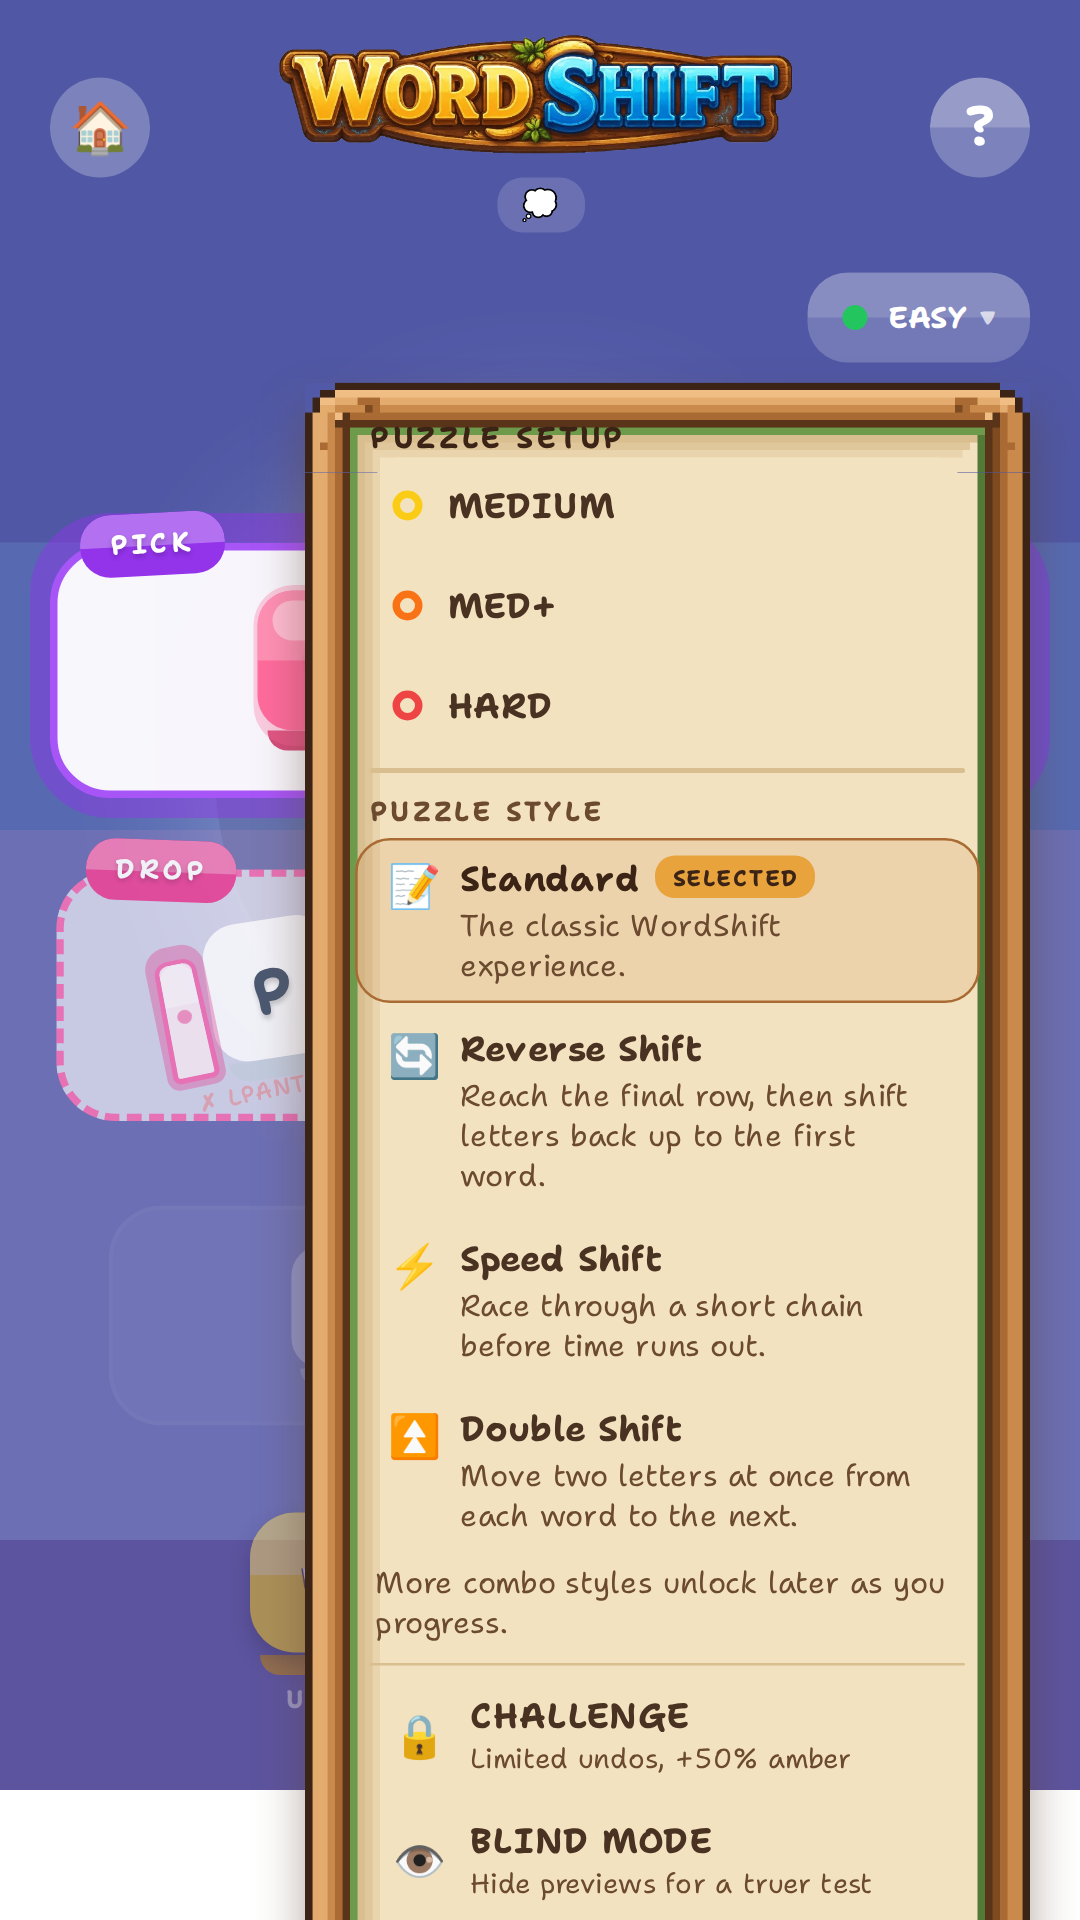
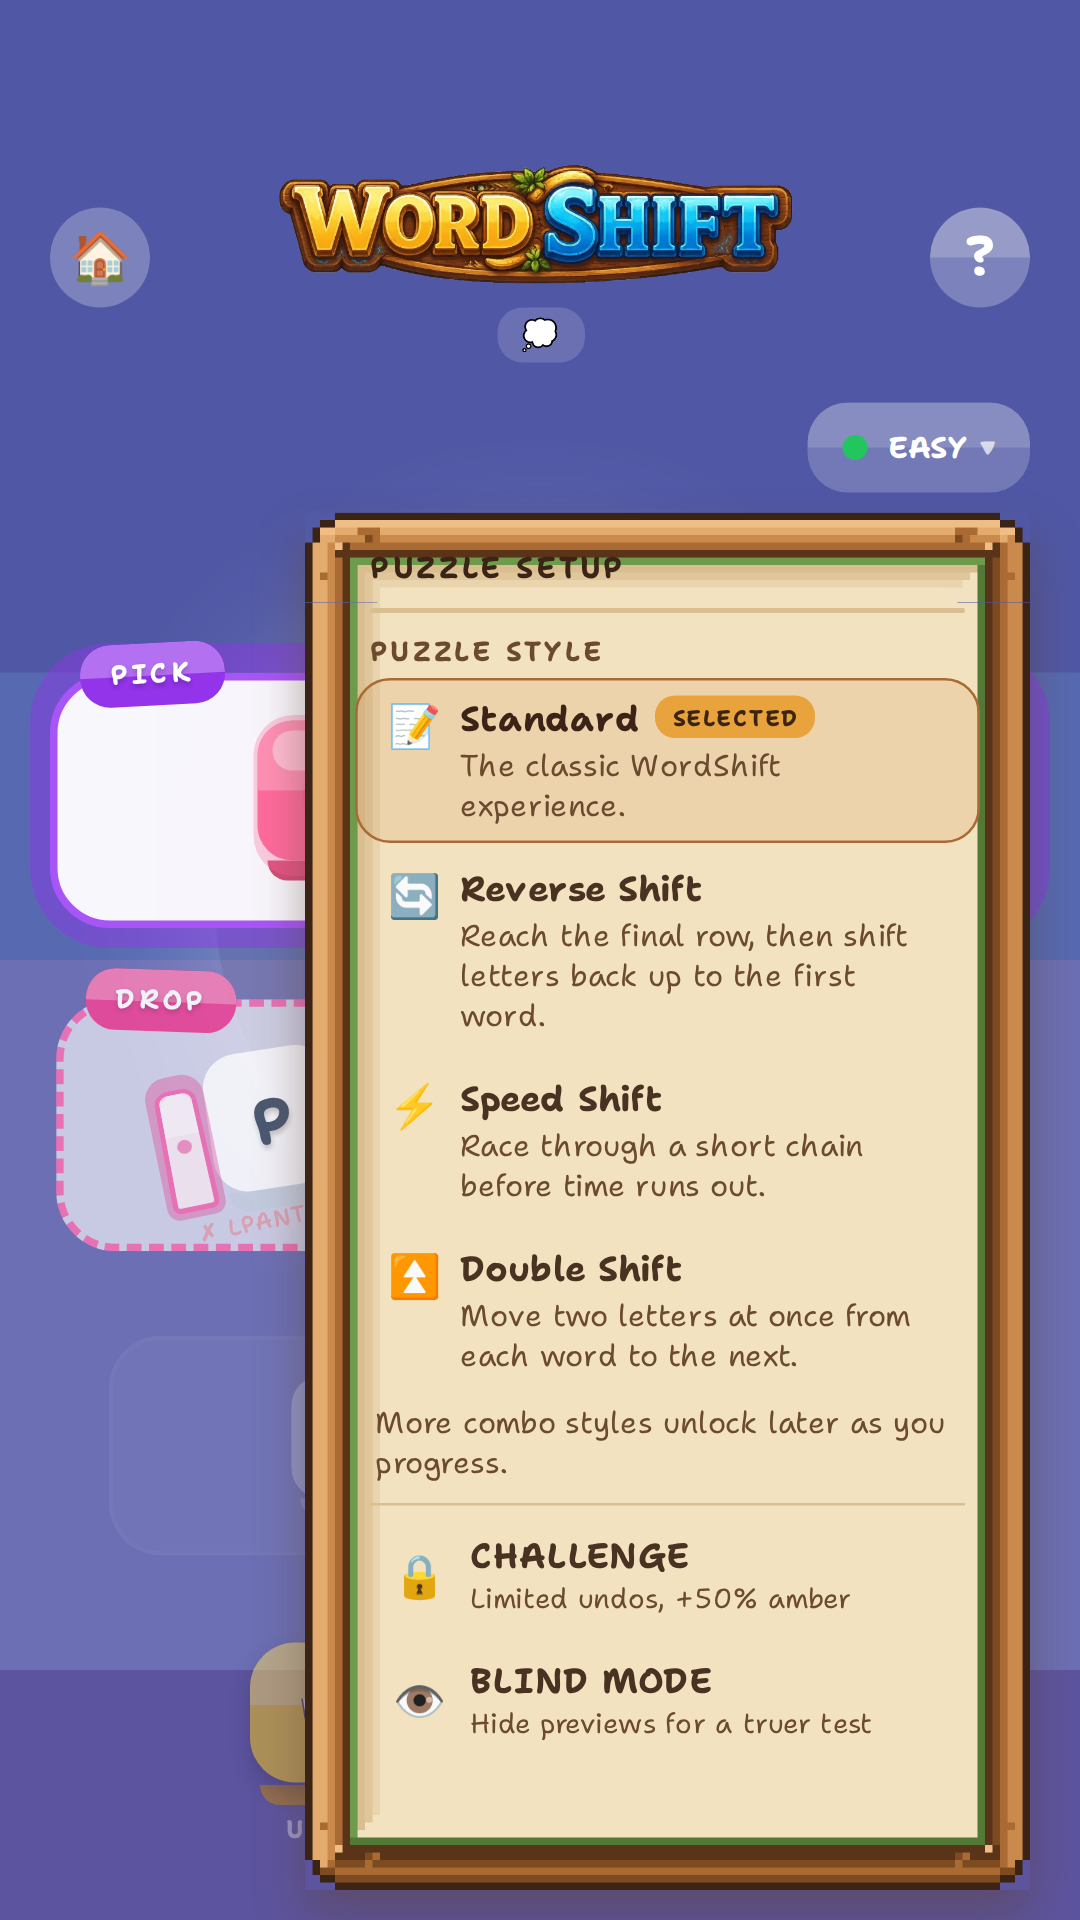
fix: frame every puzzle mode cleanly

diff --git a/mobile/src/components/puzzle/DifficultyMenu.tsx b/mobile/src/components/puzzle/DifficultyMenu.tsx
@@ -17,11 +17,10 @@ import { PuzzleVariant, VariantSelectorOption, getVariantDescription } from '../
 import { BODY_FONT, BODY_FONT_ITALIC, PIXEL_FONT_BOLD } from '../../theme/fonts';
 
 const { height: SCREEN_HEIGHT } = Dimensions.get('window');
-// The menu floats at top: 52. Size it to the device so DIFFICULTY + PUZZLE STYLE
-// (Standard/Reverse/Speed/Double + combos) + CHALLENGE/BLIND all fit without the
-// last row clipping the frame — taller than the old fixed 650 once Speed Shift
-// unlocks, but never so tall it runs off a short device.
-const MENU_MAX_HEIGHT = Math.max(560, Math.min(SCREEN_HEIGHT - 88, 900));
+// The menu floats at top: 52 inside the stats row, below the puzzle header.
+// Reserve that full chrome offset plus a bottom margin so the lower wood edge
+// stays on-screen; the ScrollView carries overflow on shorter devices.
+const MENU_MAX_HEIGHT = Math.max(400, Math.min(SCREEN_HEIGHT - 204, 900));
 // The scroll area must fit ABOVE the frame's ~21dp bottom wood band, or its
 // last row is clipped by the panel's overflow:hidden and can't be scrolled
 // into view. Reserve the top padding (18) + title (~26) + a bottom clearance
